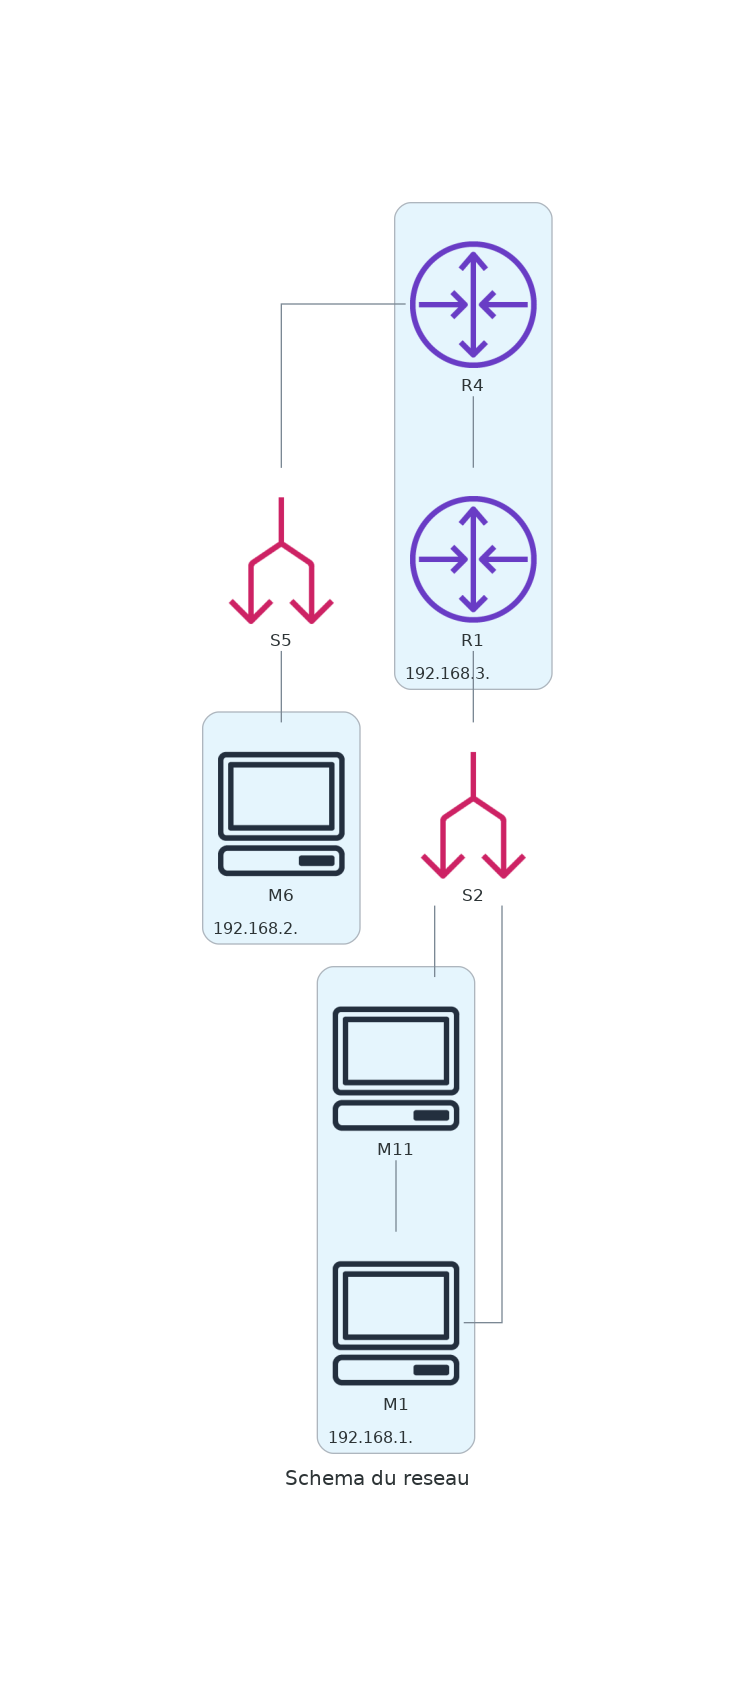
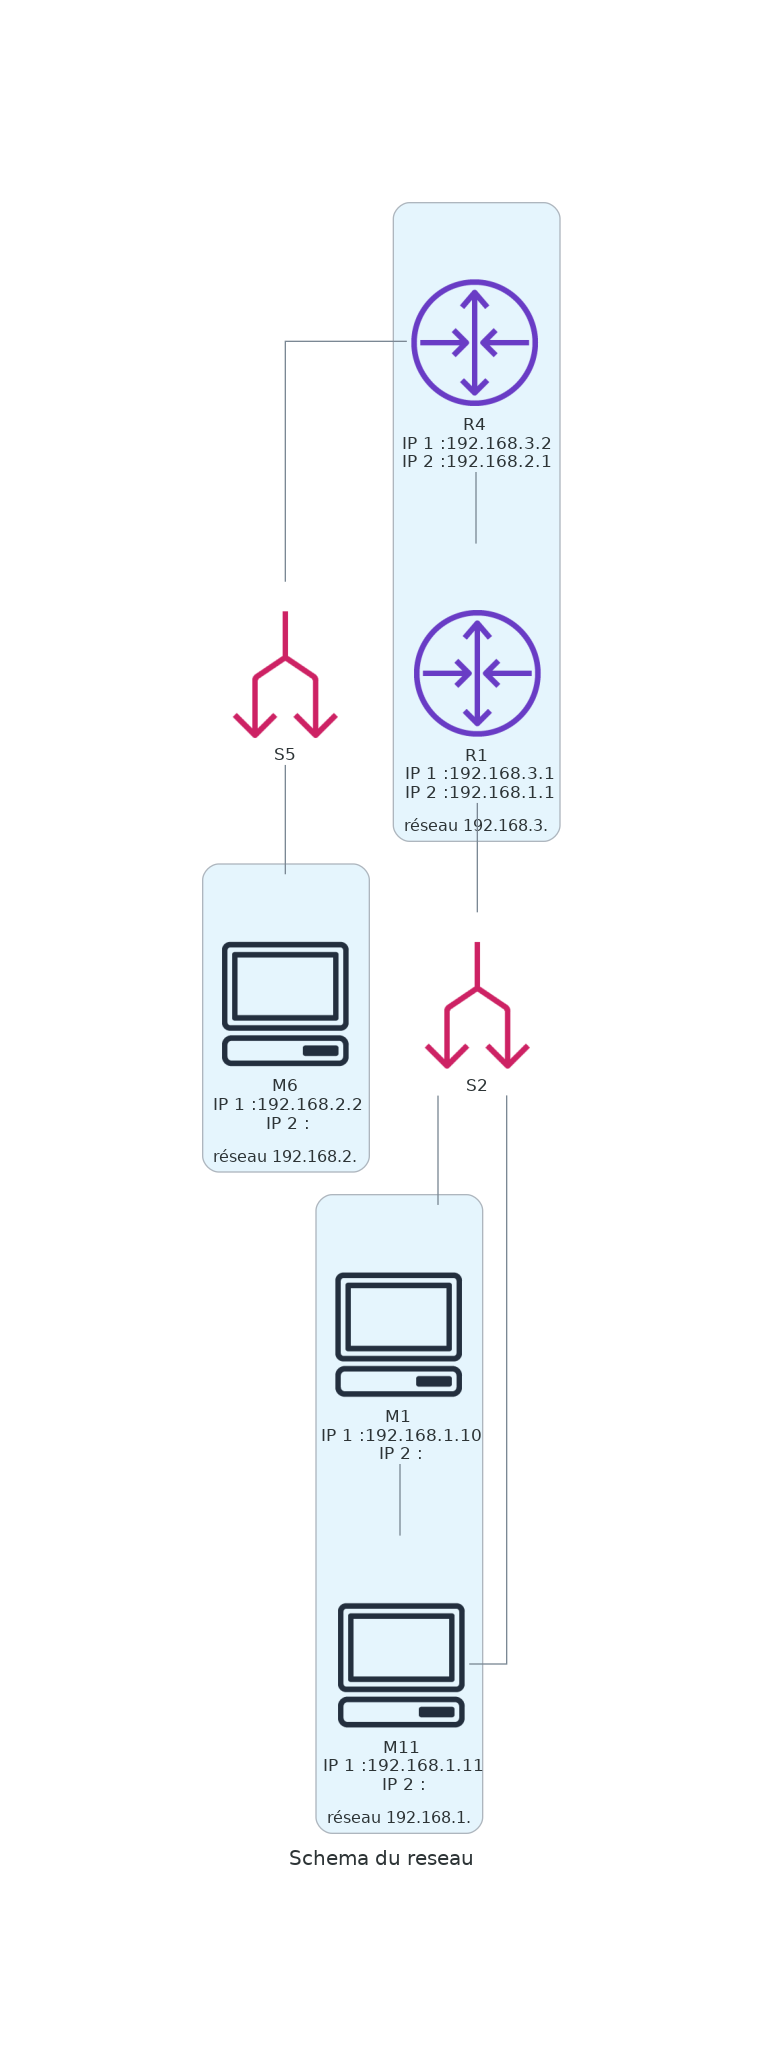
Detail de l'indetification des elemts du schema

Changed region(s): [[0.2437, 0.0924, 0.7616, 0.9236], [0.3656, 0.1539, 0.396, 0.2771]]

diff --git a/Script/schema_evolue_avec_methode.py b/Script/schema_evolue_avec_methode.py
@@ -204,7 +204,7 @@ def gen_imgcluster():
     interutil = [] #lier au find_Interface
     interutil1 = [] #lier au find_Interface
     
-    with Diagram("Schema du reseau",show=False, filename="Image/Evolue_Avec_Cluster", direction="BT"):
+    with Diagram("Schema du reseau",show=True, filename="Image/Evolue_Avec_Cluster", direction="BT"):
         
     #---------------------------PARTIE NODE-----------------------------
         #-----------------------PARTIE SWITCH CAR SANS MASQUE NI ADDRESS
@@ -216,7 +216,7 @@ def gen_imgcluster():
         
         for elem in List_of_res:
             #print('Reseau en cours',elem)
-            with Cluster(elem):
+            with Cluster("réseau " + elem):
                 for row in List_of_complet:
                     #print('Ligne en action', row)
                     x =[] #Stock temporairement les reseau des adress1 avec l'expression reguliere
@@ -227,11 +227,12 @@ def gen_imgcluster():
                         testad1.append(x[0])
                         #print('Adresse1 en cour de test',testad1)
                         if testad1[0] == elem:
-                        #On passe à l'inisialisation
+                        #On passe à l'initialisation
                             if row['Type'] == 'Routeur':
-                                row['Image'] = VPCRouter(str(row['Name']))
+                                print(row)
+                                row['Image'] = VPCRouter(row['Name'] + "\n IP 1 :" + row['adresse1']+ "\n IP 2 :" + row['adresse2'])
                             elif row ['Type'] == 'Machine':
-                                row['Image'] = Client(str(row['Name']))
+                                row['Image'] = Client(row['Name'] + "\n IP 1 :" + row['adresse1']+ "\n IP 2 :" + row['adresse2'])
                             else :
                                 print('Error Type')
                         else:
@@ -244,9 +245,9 @@ def gen_imgcluster():
                         if testad1[0] == elem:
                         #On passe à l'inisialisation
                             if row['Type'] == 'Routeur':
-                                row['Image'] = VPCRouter(str(row['Name']))
+                                row['Image'] = VPCRouter(row['Name'] + "\n IP 1 :" + row['adresse1']+ "\n IP 2 :" + row['adresse2'])
                             elif row ['Type'] == 'Machine':
-                                row['Image'] = Client(str(row['Name']))
+                                row['Image'] = Client(row['Name'] + "\n IP 1 :" + row['adresse1']+ "\n IP 2 :" + row['adresse2'])
                             else :
                                 print('Error Type')
                         else:
@@ -259,9 +260,9 @@ def gen_imgcluster():
                         if testad1[0] == elem:
                         #On passe à l'inisialisation
                             if row['Type'] == 'Routeur':
-                                row['Image'] = VPCRouter(str(row['Name']))
+                                row['Image'] = VPCRouter(row['Name'] + "\n IP 1 :" + row['adresse1']+ "\n IP 2 :" + row['adresse2'])
                             elif row ['Type'] == 'Machine':
-                                row['Image'] = Client(str(row['Name']))
+                                row['Image'] = Client(row['Name'] + "\n IP 1 :" + row['adresse1']+ "\n IP 2 :" + row['adresse2'])
                             else :
                                 print('Error Type')
                         else:
